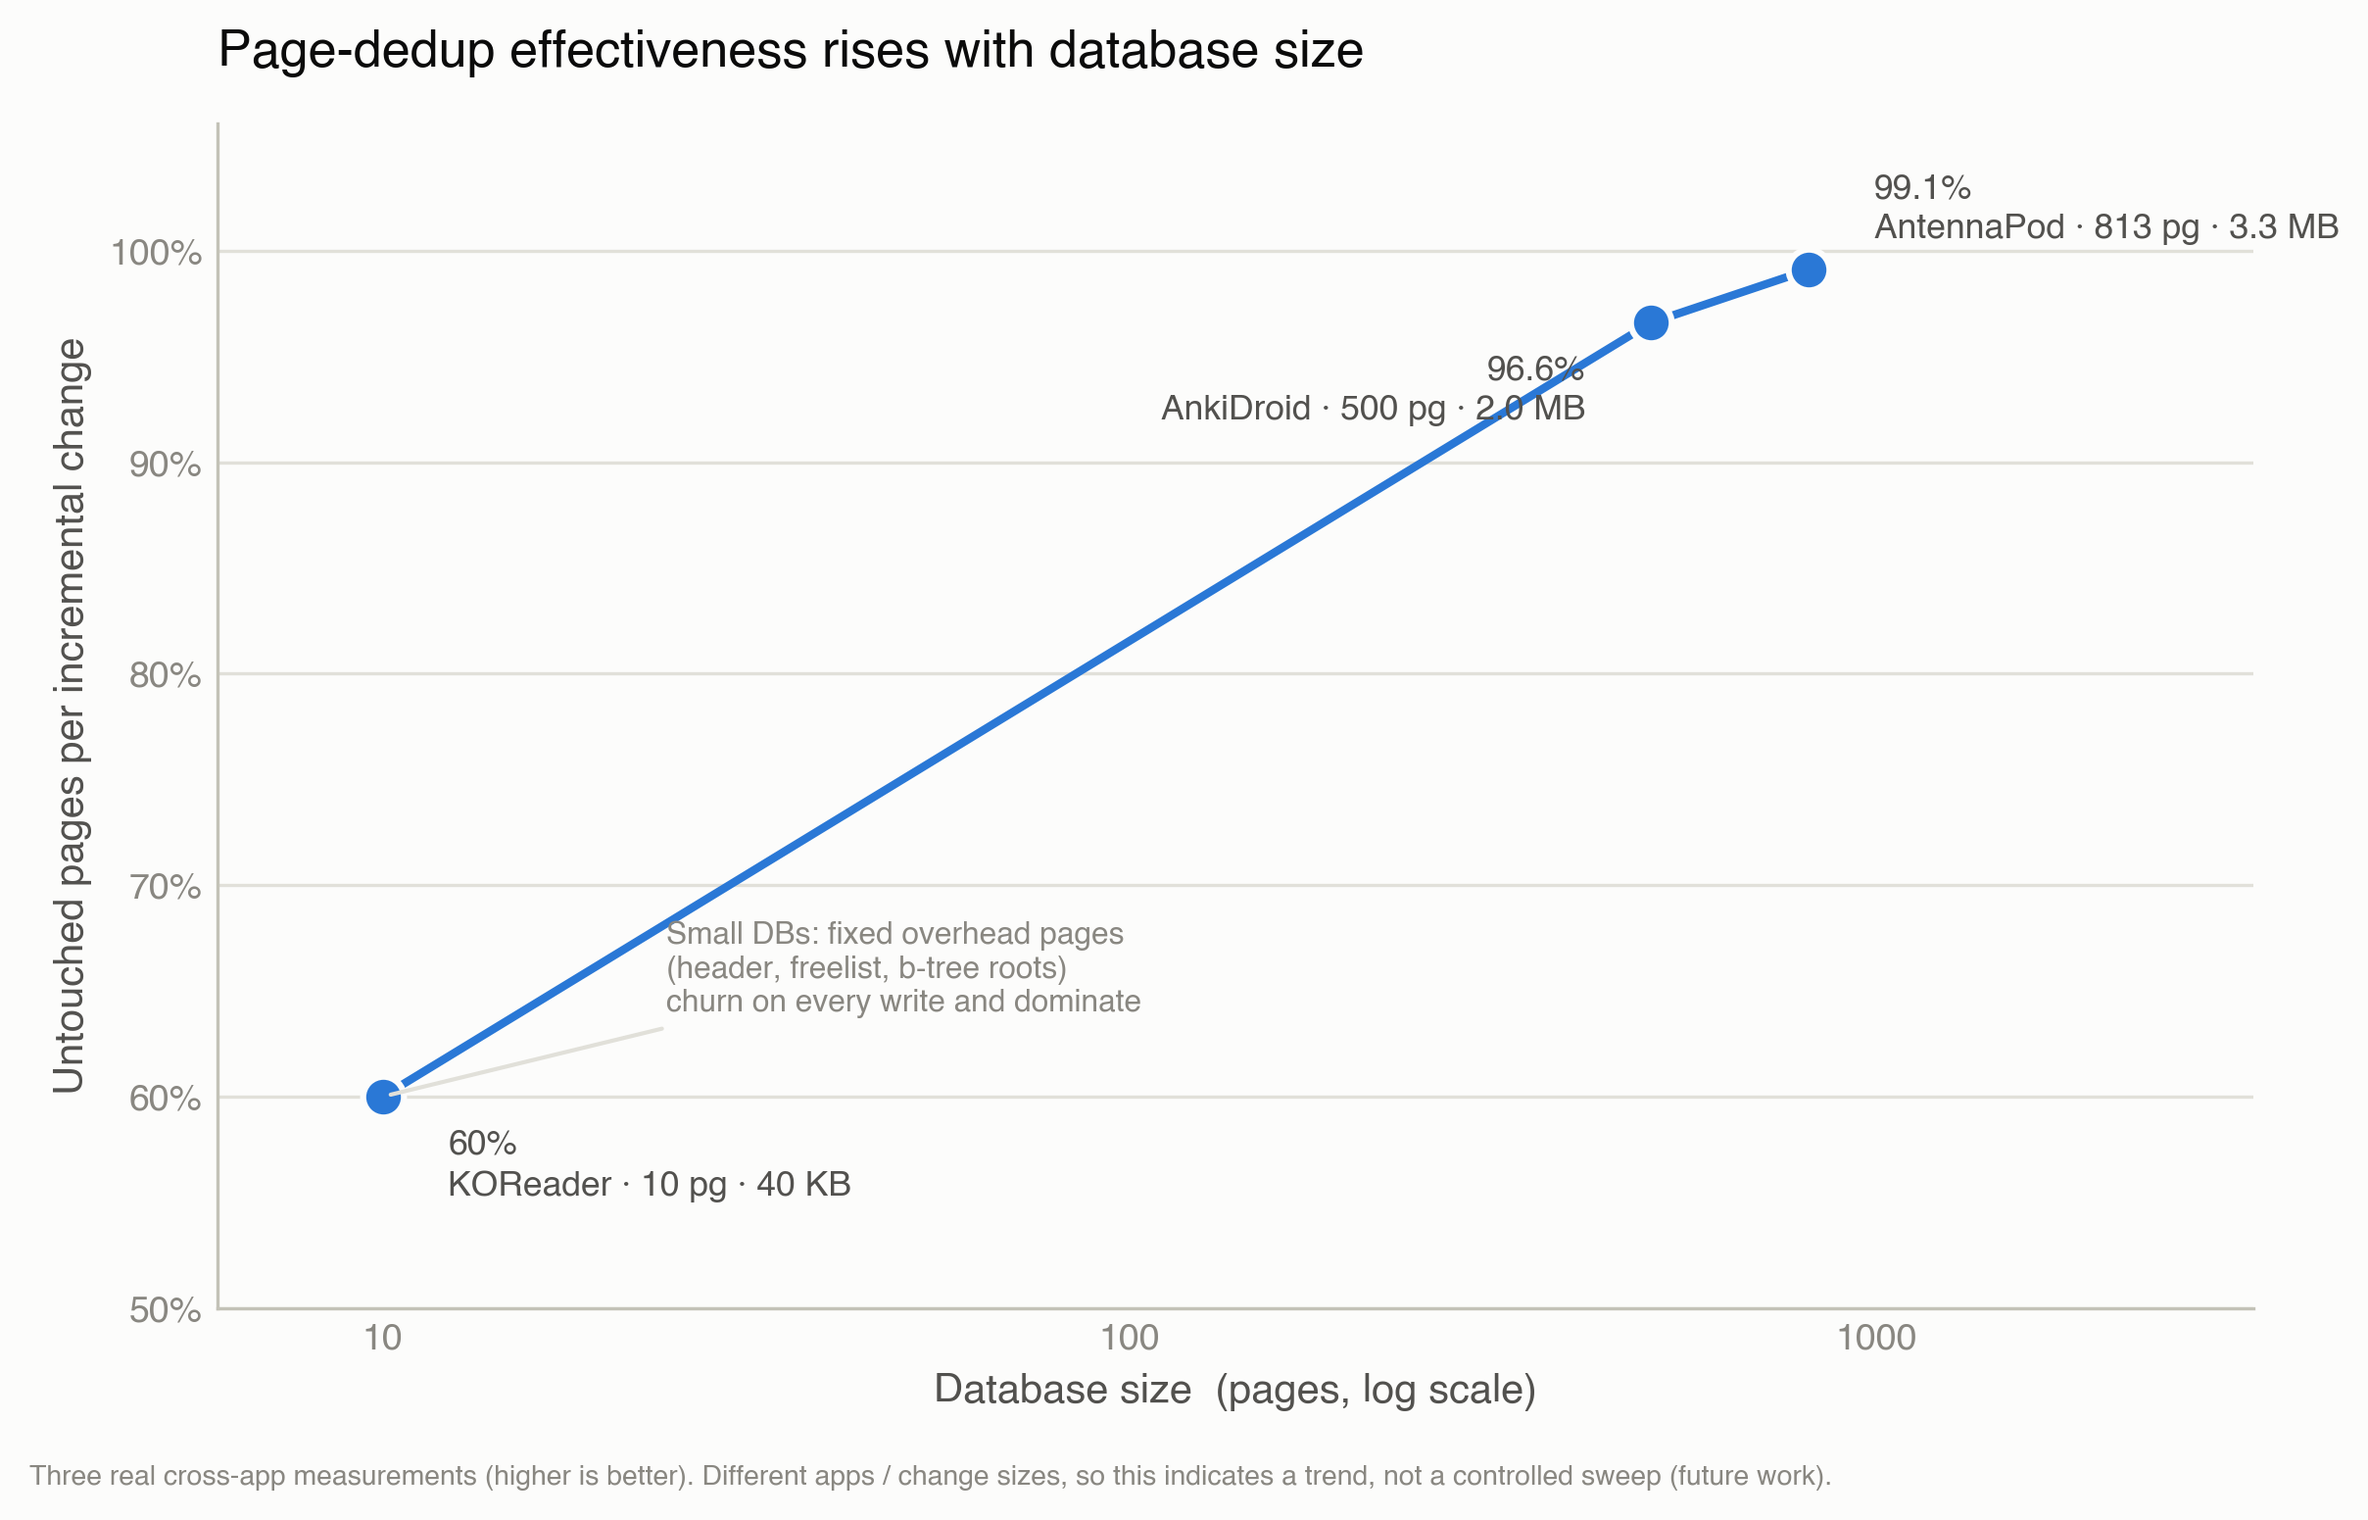
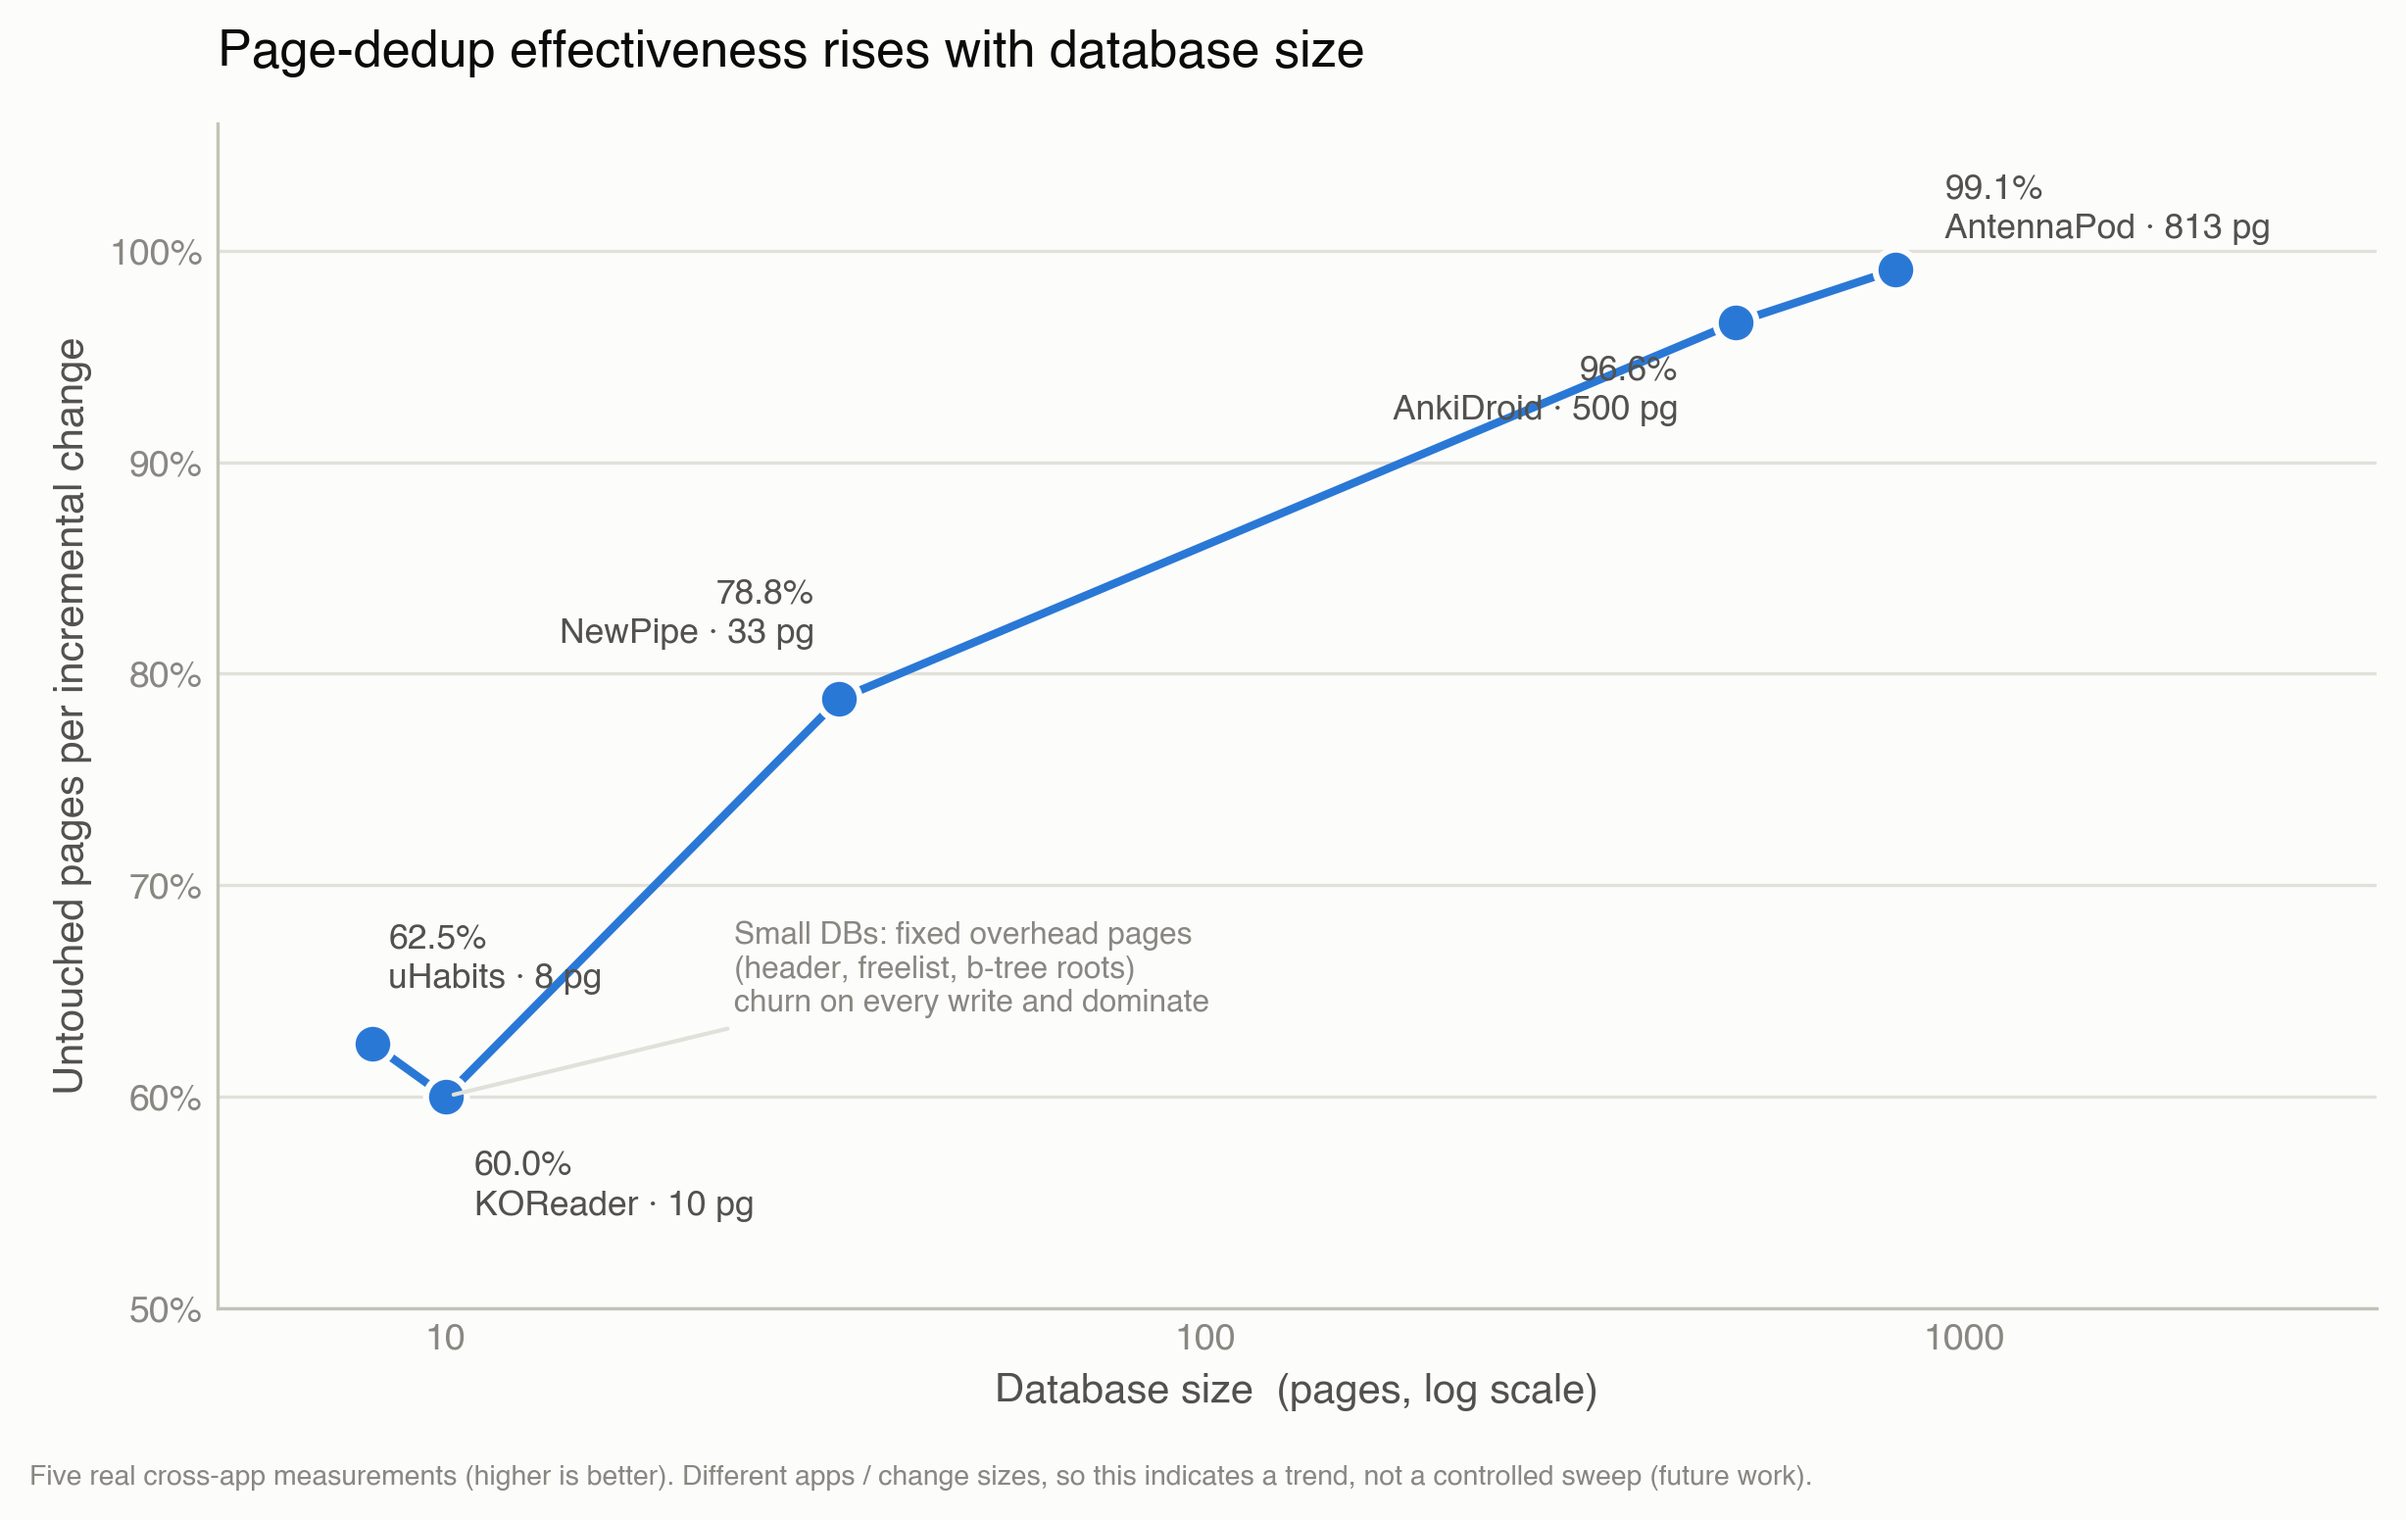
Extend size-dependence to 5 apps (add NewPipe, Loop Habit Tracker); record strengthening results

diff --git a/shim/plot_size_dependence.py b/shim/plot_size_dependence.py
@@ -11,9 +11,11 @@ ROOT = Path(__file__).resolve().parent.parent
 
 # (app, DB pages, DB size label, untouched %) — real measured points
 PTS = [
-    ("KOReader\nstats", 10, "40 KB", 60.0),
-    ("AnkiDroid\nstudy", 500, "2.0 MB", 96.6),
-    ("AntennaPod\nplayback", 813, "3.3 MB", 99.1),
+    ("uHabits", 8, "32 KB", 62.5),
+    ("KOReader", 10, "40 KB", 60.0),
+    ("NewPipe", 33, "132 KB", 78.8),
+    ("AnkiDroid", 500, "2.0 MB", 96.6),
+    ("AntennaPod", 813, "3.3 MB", 99.1),
 ]
 
 BLUE, INK, INK2, MUTED, GRID, BASE, SURF = \
@@ -30,18 +32,20 @@ ax.plot(xs, ys, "-", color=BLUE, linewidth=2, zorder=2)
 ax.plot(xs, ys, "o", color=BLUE, markersize=10, markeredgecolor=SURF,
         markeredgewidth=1.5, zorder=3)
 
-# direct labels: one clean staggered label per point (below-right / below-left / above-right)
+# direct labels: staggered to avoid collisions (uHabits/KOReader nearly coincide)
 lab = [
-    ("%.0f%%\nKOReader · 10 pg · 40 KB" % 60.0, (16, -8), "left", "top"),
-    ("%.1f%%\nAnkiDroid · 500 pg · 2.0 MB" % 96.6, (-16, -8), "right", "top"),
-    ("%.1f%%\nAntennaPod · 813 pg · 3.3 MB" % 99.1, (16, 6), "left", "bottom"),
+    ("62.5%\nuHabits · 8 pg", (4, 12), "left", "bottom"),
+    ("60.0%\nKOReader · 10 pg", (7, -13), "left", "top"),
+    ("78.8%\nNewPipe · 33 pg", (-6, 12), "right", "bottom"),
+    ("96.6%\nAnkiDroid · 500 pg", (-14, -8), "right", "top"),
+    ("99.1%\nAntennaPod · 813 pg", (12, 6), "left", "bottom"),
 ]
 for (name, pg, sz, pct), (txt, (dx, dy), ha, va) in zip(PTS, lab):
     ax.annotate(txt, (pg, pct), xytext=(dx, dy), textcoords="offset points",
                 ha=ha, va=va, fontsize=8.5, color=INK2, linespacing=1.35)
 
 ax.set_xscale("log")
-ax.set_xlim(6, 3200)
+ax.set_xlim(5, 3500)
 ax.xaxis.set_major_locator(FixedLocator([10, 100, 1000]))
 ax.xaxis.set_minor_locator(NullLocator())
 ax.xaxis.set_major_formatter(FuncFormatter(lambda n, _: "%g" % n))
@@ -68,7 +72,7 @@ ax.annotate("Small DBs: fixed overhead pages\n(header, freelist, b-tree roots)\n
             arrowprops=dict(arrowstyle="-", color=GRID, lw=1))
 
 fig.text(0.008, -0.02,
-         "Three real cross-app measurements (higher is better). Different apps / change sizes, "
+         "Five real cross-app measurements (higher is better). Different apps / change sizes, "
          "so this indicates a trend, not a controlled sweep (future work).",
          fontsize=6.8, color=MUTED, ha="left")
 

diff --git a/RESULTS.md b/RESULTS.md
@@ -183,6 +183,16 @@ full-copy 5.24 s vs ours 0.07 s (75x faster); at 10 Mbps (4G) 0.52 s vs 0.01 s
 (67x faster). Restore: downloaded the 540 B bundle and reconstructed the DB
 byte-exact over the wire. Closes the "no end-to-end transport evaluation" gap.
 
+**More real apps (coverage).** NewPipe added as a 4th real app: 33-page (132 KB)
+DB, real watch-history change -> 78.8% untouched, page-dedup 28 KB vs 132 KB
+full-copy, 3.27x smaller than FastCDC, 6/7 changed pages are delta candidates.
+Fills the mid-small DB range between KOReader (10 pg) and AnkiDroid (500 pg).
+Loop Habit Tracker (uHabits) added as a 5th app: 8-page (32 KB) DB, real habit
+toggle -> 62.5% untouched, 1.78x smaller than FastCDC (all 3 changed pages are
+delta candidates). FINAL app roster (5): uHabits (8 pg, 62.5%), KOReader
+(10 pg, 60.0%), NewPipe (33 pg, 78.8%), AnkiDroid (500 pg, 96.6%), AntennaPod
+(813 pg, 99.1%) - a strong 5-point size-dependence curve.
+
 ## What remains before submission
 
 1. More intervals per app -> the untouched-fraction curve (have 2 AnkiDroid, 1 AntennaPod).
